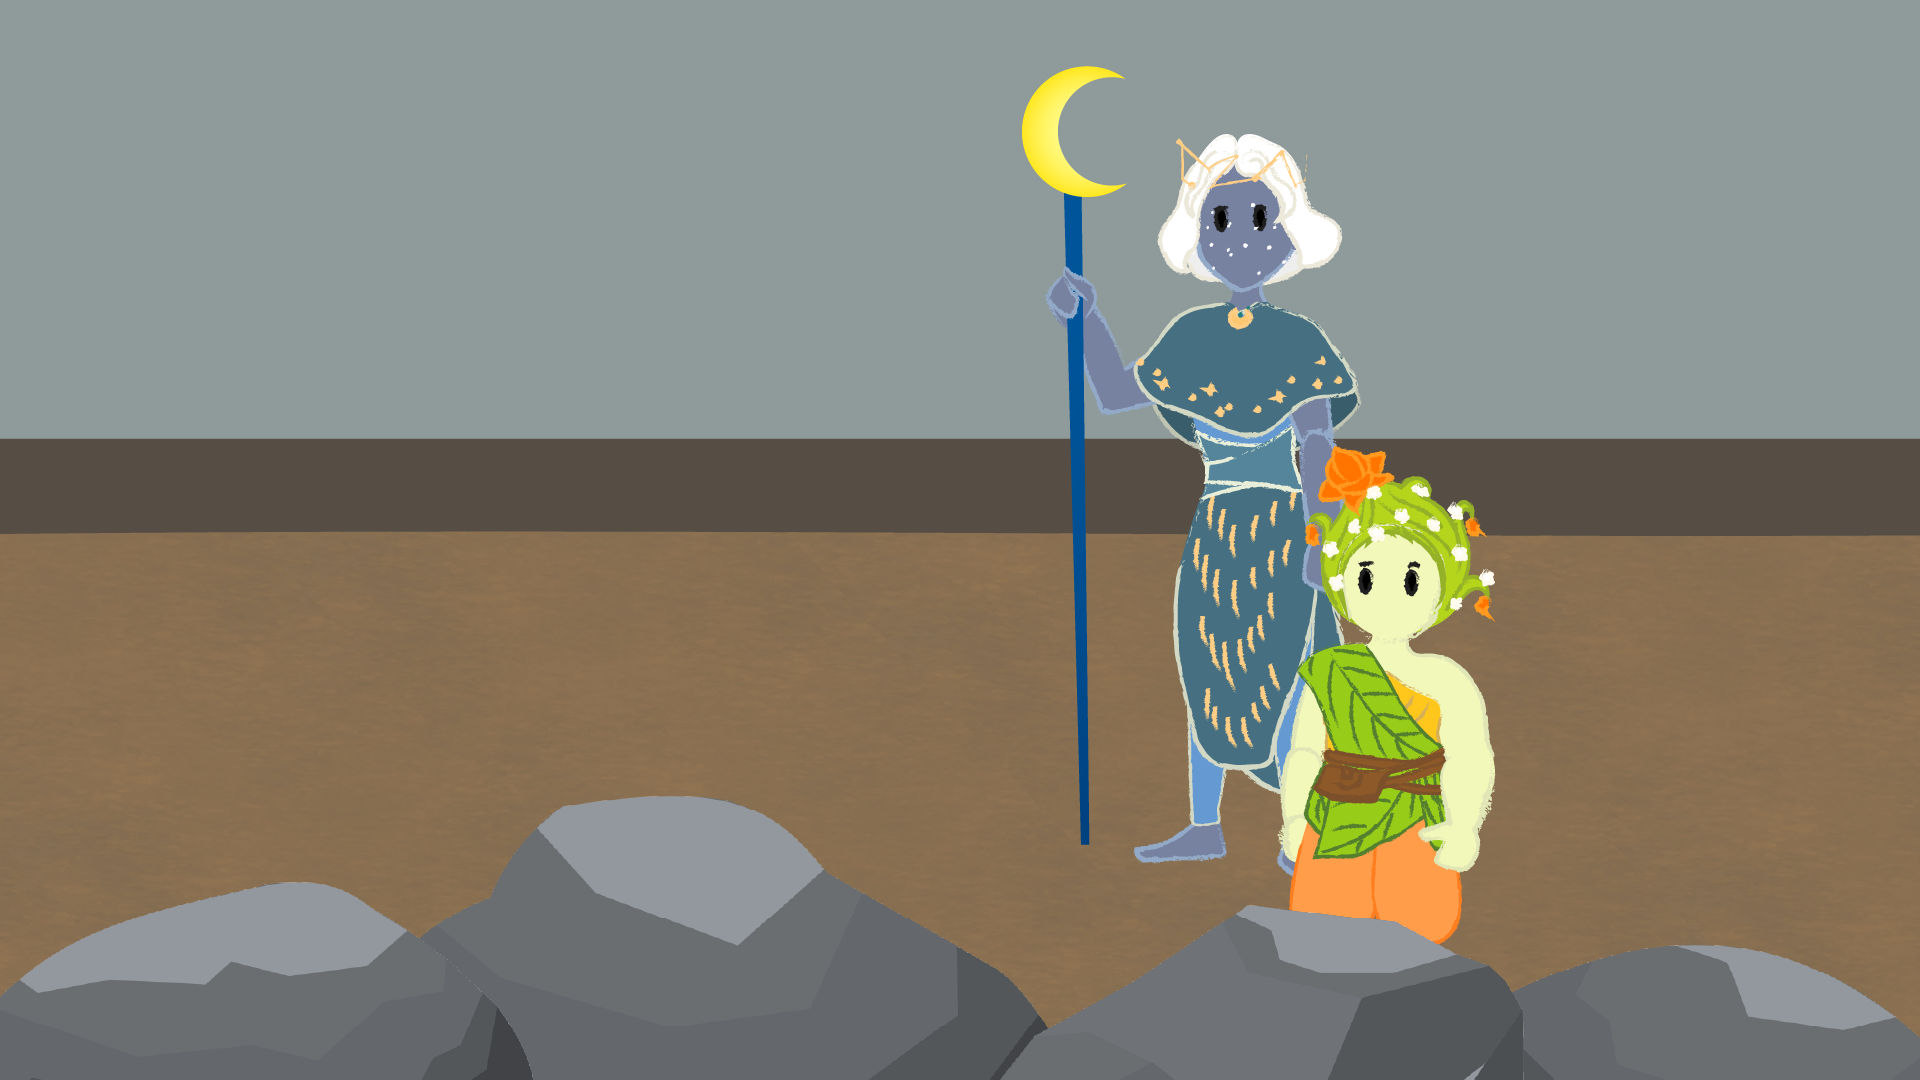
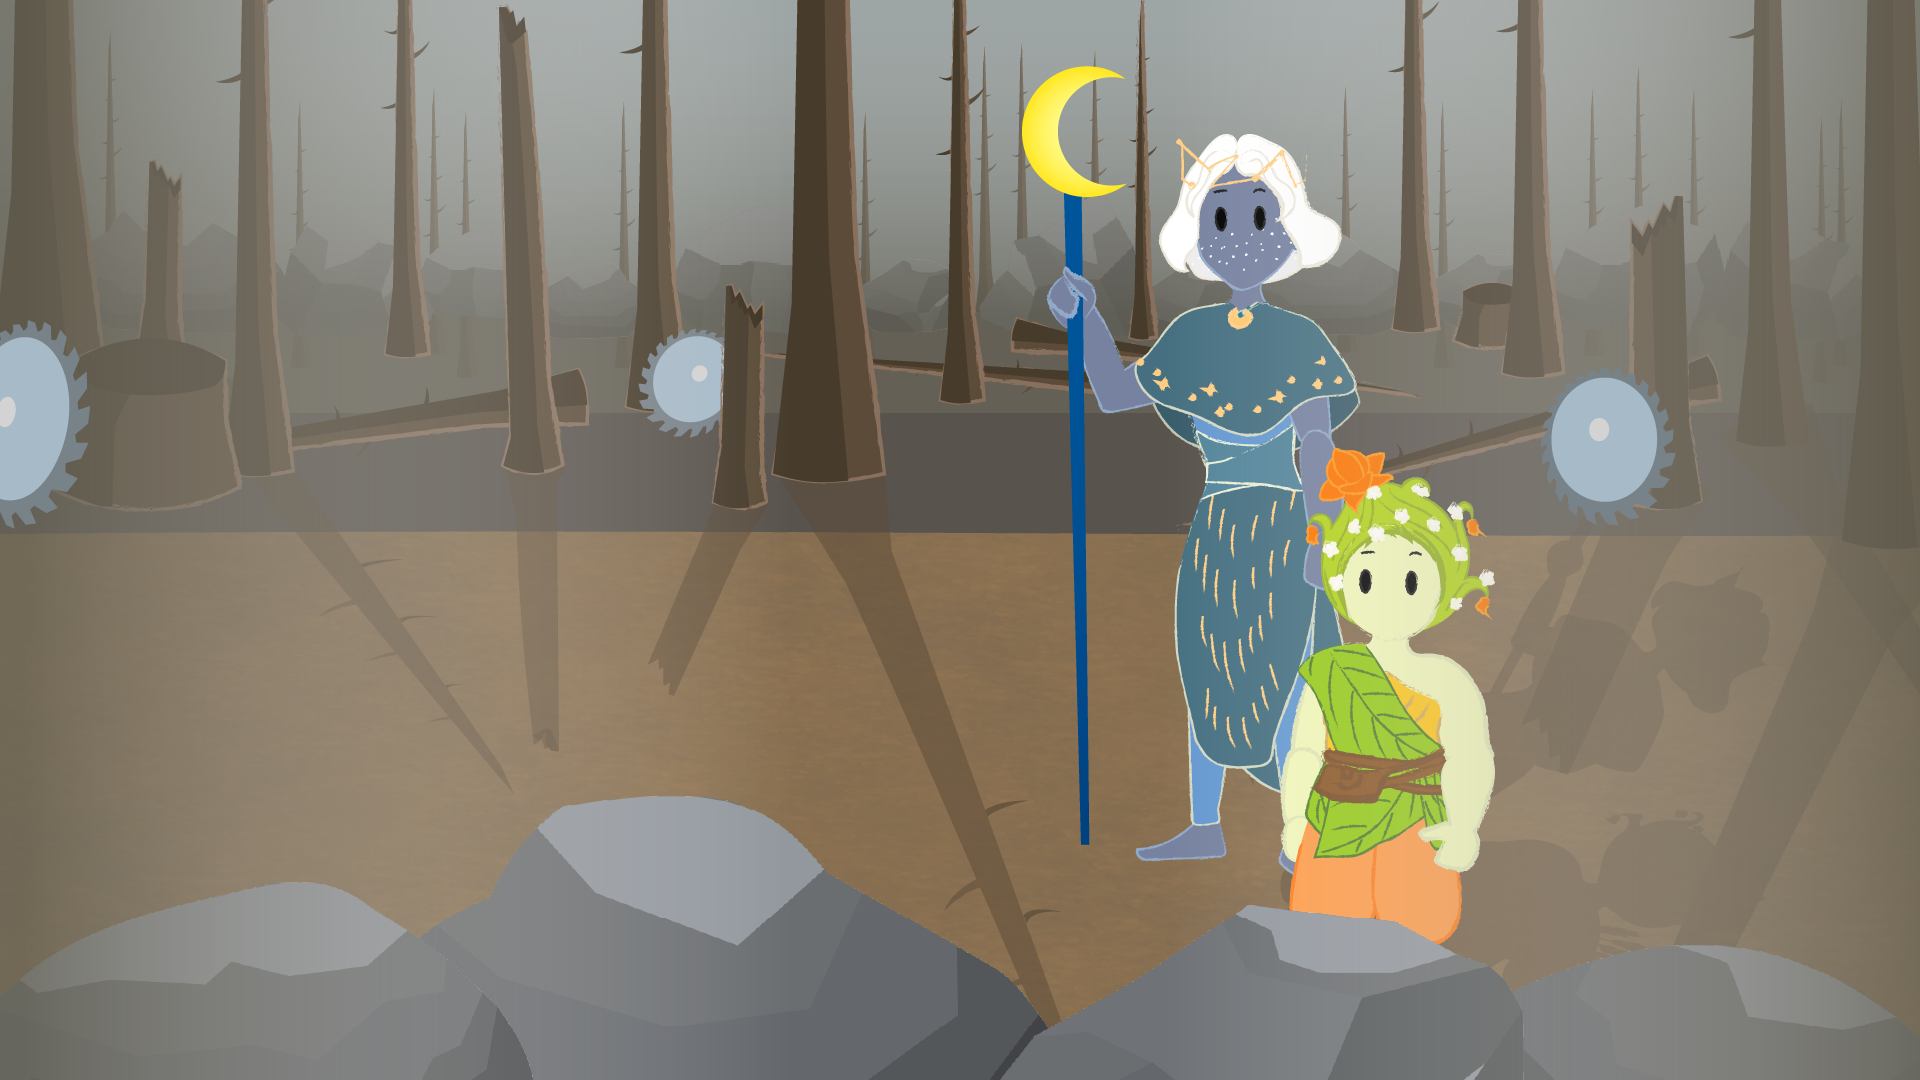
fixed lvl2 UI references, added lvl2 cutscene

diff --git a/Assets/Script/Interaction Scripts/PickupObject.cs b/Assets/Script/Interaction Scripts/PickupObject.cs
@@ -130,10 +130,36 @@ public class PickupObject : Interactable
         if (other.GetComponent<EarthPlayer>() && other.GetType() == typeof(CapsuleCollider))
         {
             p1IsInRange = true;
+
+            // Update the text based on the control type from the user settings manager
+            if (userSettingsManager.earthControlType == UserSettingsManager.ControlType.KEYBOARD)
+            {
+                pickupLetter.GetComponent<TextMeshProUGUI>().text = "P";
+            } 
+            else if (userSettingsManager.earthControlType == UserSettingsManager.ControlType.CONTROLLER)
+            {
+            pickupLetter.GetComponent<TextMeshProUGUI>().text = "A";
+            }
         }
         if (other.GetComponent<CelestialPlayer>() && other.GetType() == typeof(CapsuleCollider))
         {
             p2IsInRange = true;
+
+            // Update pickup letter based on celestial player's control type
+            if (userSettingsManager.celestialControlType == UserSettingsManager.ControlType.KEYBOARD)
+            {
+                pickupLetter.GetComponent<TextMeshProUGUI>().text = "E";
+            } 
+            else if (userSettingsManager.celestialControlType == UserSettingsManager.ControlType.CONTROLLER)
+            {
+                pickupLetter.GetComponent<TextMeshProUGUI>().text = "A";
+            }
+        }
+
+        // If one player goes out of range, update pickup letter back to "P" if EarthPlayer is still in range
+        if (!p2IsInRange && p1IsInRange && userSettingsManager.earthControlType == UserSettingsManager.ControlType.KEYBOARD)
+        {
+            pickupLetter.GetComponent<TextMeshProUGUI>().text = "P";
         }
     }
 
@@ -142,24 +168,18 @@ public class PickupObject : Interactable
         if (other.GetComponent<EarthPlayer>() && other.GetType() == typeof(CapsuleCollider))
         {
             p1IsInRange = false;
+
         }
         if (other.GetComponent<CelestialPlayer>() && other.GetType() == typeof(CapsuleCollider))
         {
             p2IsInRange = false;
+
         }
     }
 
    private void UpdatePickupLetter()
     {
-        // Update the text based on the control type from the user settings manager
-        if (userSettingsManager.earthControlType == UserSettingsManager.ControlType.KEYBOARD)
-        {
-            pickupLetter.GetComponent<TextMeshProUGUI>().text = "P";
-        } 
-        else if (userSettingsManager.earthControlType == UserSettingsManager.ControlType.CONTROLLER)
-        {
-           pickupLetter.GetComponent<TextMeshProUGUI>().text = "A";
-        }
+        
         
     } 
 }
